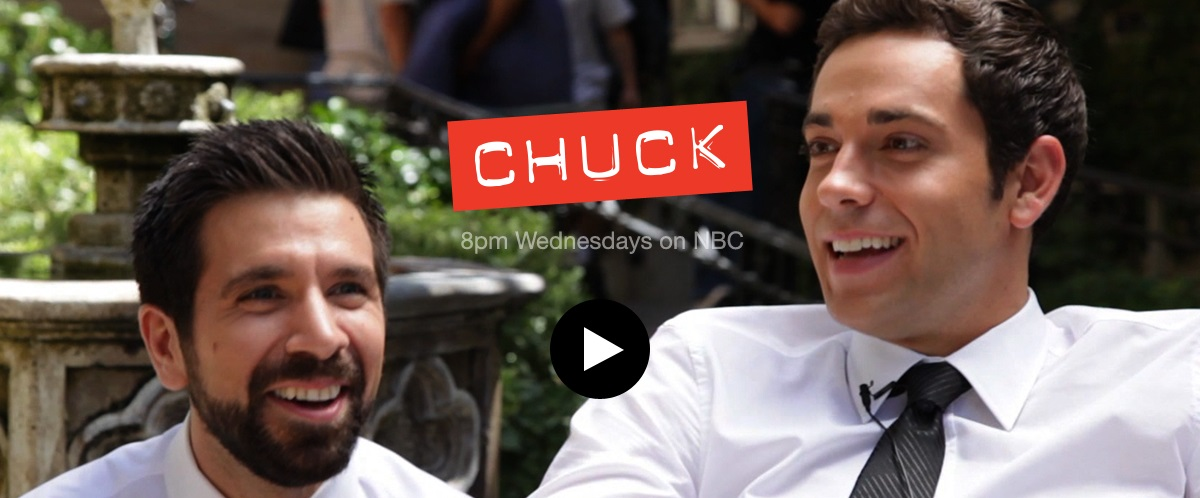
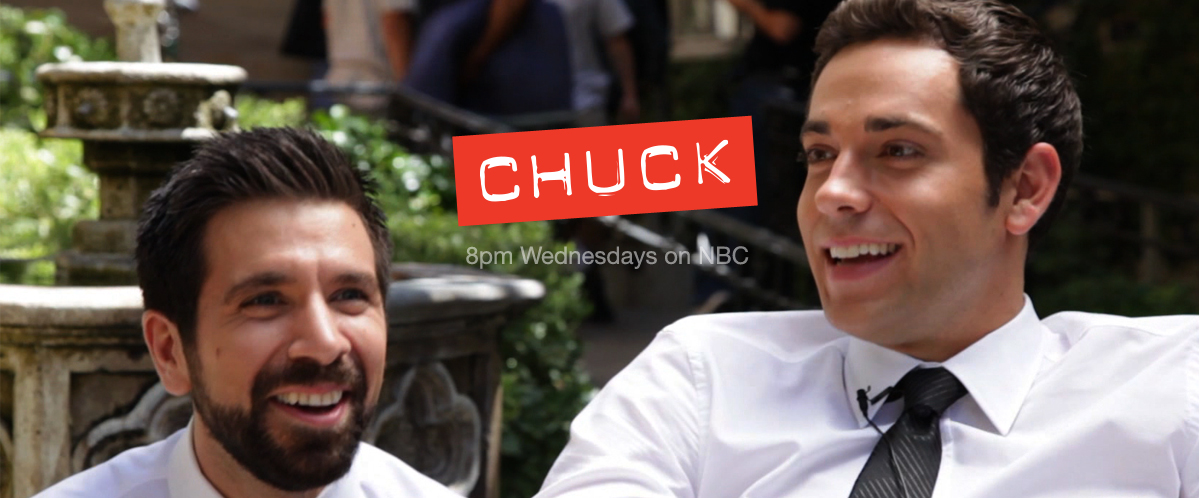
added Grunt and updated Youtube player

diff --git a/public/modules/campaign/video/videoDirective.js b/public/modules/campaign/video/videoDirective.js
@@ -33,33 +33,33 @@ angular.module('VideoDRCT', ['CampaignCTRL']).directive('fnVideo', function(){
 			// //Code based on: https://developers.google.com/youtube/iframe_api_reference#
 			
 			// //This code loads the IFrame Player API code asynchronously.
-		 //    var tag = document.createElement('script');
-		 //    tag.src = "https://www.youtube.com/iframe_api";
-		 //    var firstScriptTag = document.getElementsByTagName('script')[0];
-		 //    firstScriptTag.parentNode.insertBefore(tag, firstScriptTag);
+		     var tag = document.createElement('script');
+		     tag.src = "https://www.youtube.com/iframe_api";
+		     var firstScriptTag = document.getElementsByTagName('script')[0];
+		     firstScriptTag.parentNode.insertBefore(tag, firstScriptTag);
 
-		 //    // 3. This function creates an <iframe> (and YouTube player)
-		 //    //    after the API code downloads.
-		 //    var player;
-		 //    window.onYouTubeIframeAPIReady = function() {
-		 //        player = new YT.Player('video_player', {
-		 //        	events: {
-		 //        		'onStateChange': onPlayerStateChange
-		 //          	}
-		 //        });
-		 //    }
+		     // 3. This function creates an <iframe> (and YouTube player)
+		     //    after the API code downloads.
+		     var player;
+		     window.onYouTubeIframeAPIReady = function() {
+		         player = new YT.Player('video_player', {
+		         	events: {
+		         		'onStateChange': onPlayerStateChange
+		           	}
+		         });
+		     }
 
-		 //    onPlayerStateChange = function(event){
-		 //    	if (event.data == YT.PlayerState.ENDED){
-		 //    		console.log('ended');
-		 //    		$('#video_player').fadeIn();
-		 //    	}
-		 //    }
+		     onPlayerStateChange = function(event){
+		     	if (event.data == YT.PlayerState.ENDED){
+		     		console.log('ended');
+		     		$('.video_poster').fadeIn();
+		    	}
+		     }
 
-		 //    $('#video_poster').click(function(){
-		 //    	$('#video_poster').fadeOut();
-		 //    	player.playVideo();
-		 //    });
+		     $('#video_overlay').click(function(){
+		     	$('.video_poster').fadeOut();
+		     	player.playVideo();
+		     });
 		}
 	}
 });

diff --git a/public/css/homepage.css b/public/css/homepage.css
@@ -30,8 +30,8 @@ a, a:link, a:active, a:visited a:hover {text-decoration: none;}
 #homepage{
 	position: relative;
 	top: 50px;
-	width: 100%;
-	height: 1000px;
+	min-width: 1060px;
+	max-width: 1160px;
 	display: block;
 	margin: auto;
 }
@@ -40,16 +40,59 @@ a, a:link, a:active, a:visited a:hover {text-decoration: none;}
 	position: relative;
 	height: 400px;
 	width: 100%;
+	max-width: 1130px;
+	overflow: hidden;
+	text-align: center;
+	font-size: 30px;
+	top: 0px;
+	z-index: 3px;
+}
+
+#homepage_banner #homepage_img{
+	position: absolute;
+	width: 100%;
+	min-height: 365px;
+	left: 0px;
 	text-align: center;
 	font-size: 30px;
 }
 
 #homepage_banner .banner_tag{
+	position: relative;
+	width: 100%;
 	color: #ed2852;
-	font-size: 1.5em;
+	font-size: 1.3em;
+	text-align: center;
+	padding-top: 35px;
+	font-weight: bold;
+	margin-bottom: 55px;
+}
+
+#homepage_banner .banner_line{
+	position: relative;
+	width: 600px;
+	color: white;
+	margin: 0 auto;
+	font-size: 0.87em;
 	text-align: left;
-	padding-left: 30px;
-	padding-top: 60px;
+	margin-bottom: 40px;
+	font-family: 'Open Sans', sans-serif;
+	font-weight: 600;
+}
+
+.banner_line .banner_number{
+	position: relative;
+	width: 40px;
+	height: 40px;
+	border-radius: 20px;
+	color: #ed2852;
+	border: 2px solid #ed2852;
+	float: left;
+	margin-right: 11px;
+	padding-left: 11px;
+	line-height: 34px;
+	font-size: 0.9em;
+	font-weight: bold;
 }
 
 #homepage #homepage_project{
@@ -71,6 +114,11 @@ a, a:link, a:active, a:visited a:hover {text-decoration: none;}
 	margin-right: 30px;
 }
 
+#homepage_project #homepage_category{
+	position: relative;
+	text-align: center;
+}
+
 .project_portal a{
 	outline: none;
 	text-decoration: none;
@@ -85,6 +133,8 @@ a, a:link, a:active, a:visited a:hover {text-decoration: none;}
 
 }
 .project_thumb img{
+	top: 0px;
+	left: -200px;
 	height: 200px;
 }
 
@@ -157,4 +207,10 @@ a, a:link, a:active, a:visited a:hover {text-decoration: none;}
 	position: relative;
 	width: 90px;
 }
+
+@media screen and (max-width: 1180px){
+	#homepage_banner .banner_tag{
+		font-size: 1.2em;
+	}
+} 
 /*

diff --git a/public/modules/homepage/homeTemplate.html b/public/modules/homepage/homeTemplate.html
@@ -1,10 +1,13 @@
 <div id = 'homepage' class = "container-fluid">
 	<div id="homepage_banner">
-		<p class="banner_tag">Get more from the upcoming movies, music, or TV shows that you are excited about.</p>
-		<p class="banner_line">1. Pre-order your favorite entertainment.</p>
-		<p class="banner_line">2. Receive fan perks & unlock exclusive content for the fanbase.</p>
+		<img id="homepage_img" src="/assets/images/homepage.jpg">
+		<div class="banner_tag">Get more from the upcoming entertainment that you love</div>
+		<div class="banner_line"><div class="banner_number">1</div> Pre-order your favorite entertainment</div>
+		<div class="banner_line"><span class="banner_number">2</span> Receive exclusive perks for ordering early</div>
+		<div class="banner_line"><span class="banner_number">3</span> Unlock extra content as a fanbase</div>
 	</div>
 	<div id="homepage_project">
+		<h2 id="homepage_category">Featured Projects</h2>
 		<div class="project_portal" ng-repeat = 'campaign in homepage.model.allCampaigns'>
 		<a href="#/campaign/{{campaign._id}}">
 			<div class="project_thumb">

diff --git a/public/index.html b/public/index.html
@@ -20,6 +20,7 @@
 	<link rel="stylesheet" type="text/css" href="css/user.css">
 	<link rel="stylesheet" type="text/css" href="css/odometer-theme-plaza.css">
 	<!-- Font -->
+	<link href='http://fonts.googleapis.com/css?family=Open+Sans:400,600,700' rel='stylesheet' type='text/css'>
 	<link href='http://fonts.googleapis.com/css?family=Changa+One:400,400italic' rel='stylesheet' type='text/css'>
 
 	<!-- Libs -->
@@ -49,6 +50,18 @@
 	<div id = "footer">
 		<div id = "pre_footer"></div>
 		<img id = "footer_logo" src="">
+		<div id ="footer_wrapper">
+			<ul class="footer_list">
+				<li class="list_header">Company</li>
+				<li>About</li>
+				<li>Contact Us</li>
+			</ul>
+			<ul class="footer_list">
+				<li class="list_header">Help</li>
+				<li>Support</li>
+				<li>FAQ</li>
+			</ul>
+		</div>
 		<p id = "footer_text">© 2014 Too Fantastic. All rights reserved. &nbsp;&nbsp;<a>Terms of Service</a> | <a>Privacy Policy</a></p>
 	</div>
 	

diff --git a/public/modules/campaign/video/videoTemplate.html b/public/modules/campaign/video/videoTemplate.html
@@ -1,10 +1,12 @@
 <div id = "summary_div" class = "effect7">
 	<h2 id = "campaign_title">{{campaign.video.project}}</h2>
 	<h5 id = "campaign_producer"><a href= "http://www.paramount.com/">Paramount Studios</a></h5>
-
-<!-- 	<iframe class = 'video_element' id = 'video_player' width="817" height="460" ng-src= "{{campaign.video.url}}" allowfullscreen>
-	</iframe> -->
-	<img  class = "visual_element" id = 'video_poster' ng-src = '{{campaign.video.image}}'>
+	<div id="visual_div">
+		<iframe class = 'visual_element' id = 'video_player' width="840" height="473" ng-src= "{{campaign.video.url}}" allowfullscreen>
+		</iframe>
+		<img  class = "visual_element video_poster" ng-src = '{{campaign.video.image}}'>
+		<img id = "video_overlay" class = "visual_element video_poster" src = '/assets/images/play.png'>
+	</div>
 	<div id = "campaign_info">
 		{{campaign.rewards.length}}
 		<div id = "left_column">

diff --git a/public/modules/campaign/store/storeTemplate.html b/public/modules/campaign/store/storeTemplate.html
@@ -46,8 +46,9 @@
 			</div>
 			<div class = 'incentive_components'>
 				<p class = 'unique' ng-repeat = 'unique in incentive.contains.unique'>{{::unique.name}}</p>
-				<p class = 'carry_over' ng-class = "{contributor : incentive.level == 1, digital : incentive.level == 2, tangible : incentive.level == 3}"></p>
-				<!-- <p class = 'reward_related' ng-repeat = 'reward_related in incentive.contains.reward_related'>{{::reward_related}}</p> -->
+					<p class = 'reward_related' ng-repeat = 'reward_related in incentive.contains.reward_related'>+ {{::reward_related}}</p>
+				<p class = 'carry_over' ng-class = "{contributor : incentive.level > 0}"></p>
+			<!-- 	<p class = 'carry_over' ng-class = "{contributor : incentive.level == 1, digital : incentive.level == 2, tangible : incentive.level == 3}"></p> -->
 			</div>
 			<div class = 'incentive_buy'>
 				<div class = 'incentive_price'>

diff --git a/public/css/campaign.css b/public/css/campaign.css
@@ -45,7 +45,6 @@ a, a:link, a:active, a:visited a:hover {text-decoration: none;}
 #footer{
 	position: relative;
 	width: 100%;
-	height: 100px;
 	top: 60px;
 	color: #777;
 	background-color: #424143;
@@ -58,12 +57,33 @@ a, a:link, a:active, a:visited a:hover {text-decoration: none;}
 	background-color: #ed2852;
 }
 
+#footer #footer_wrapper{
+	position: relative;
+	display: block;
+	margin: 0 auto;
+	width: 500px;
+	height: 75px;
+}
+
+#footer_wrapper .footer_list{
+	position: relative;
+	float: left;
+	width: 50%;
+	list-style-type: none;
+}
+
+.footer_list .list_header{
+	font-weight: bold;
+	font-size: 1.1em;
+}
+
 #footer_logo{
 	position: relative;
 }
 #footer_text{
+	height: 40px;
 	position: relative;
-	margin-top: 8px;
+	clear: both;
 }
 #footer_text a{
 	color: #777;

diff --git a/public/css/video.css b/public/css/video.css
@@ -72,21 +72,34 @@ a, a:link, a:active, a:visited a:hover {text-decoration: none;}
 	text-decoration: underline;
 }
 
-/*#summary_div .visual_element{
-	position: relative;
-	width: 50%;
-	display: block;
-	margin: auto;
-	outline: none;
-}*/
-
-#summary_div #video_poster{
+#summary_div #visual_div{
 	position: relative;
 	top: 0px;
 	left: 0px;
+	height: 473px;
 	width: 100%;
+	background-color: black;
 	border-top-right-radius: 9px;
 	border-top-left-radius: 9px;
+	overflow: hidden;
+}
+
+#visual_div .visual_element{
+	display: block;
+	margin: auto;
+	outline: none;
+	border: 0;
+}
+
+.visual_element#video_player{
+	position: relative;
+}
+
+.visual_element.video_poster{
+	position: absolute;
+	top: 0px;
+	height: 100%;
+	width: auto;
 }
 
 #summary_div #campaign_info{

diff --git a/public/modules/campaign/campaignTemplate.html b/public/modules/campaign/campaignTemplate.html
@@ -25,7 +25,7 @@
 		<div id="checkout_box">
 			<div id = "payment_header">
 				<img class = 'img-circle' src = 'assets/images/cart_logo.png'>
-				<p>Contribute to the <b>"Chuck: The Movie" Campaign</b></p>
+				<p>Contribute to <b>{{campaign.video.project}}</b></p>
 			</div>
 			<fn-cart></fn-cart>
 			<!-- <div id="payment_header"> -->

diff --git a/public/css/store.css b/public/css/store.css
@@ -209,7 +209,9 @@ a, a:link, a:active, a:visited a:hover {text-decoration: none;}
 }
 
 .incentive_components .reward_related{
-	color: gray;
+	color: #ed2852;
+	font-size: 1.15em;
+	font-weight: bold;
 }
 .incentive_buy{
 	position: absolute;
